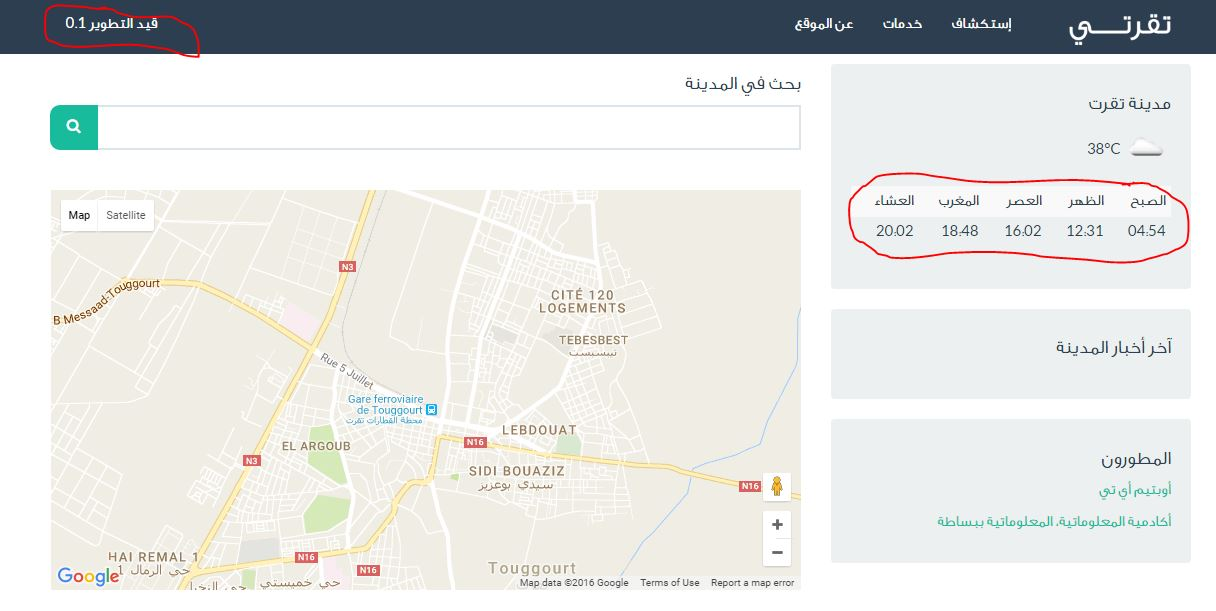
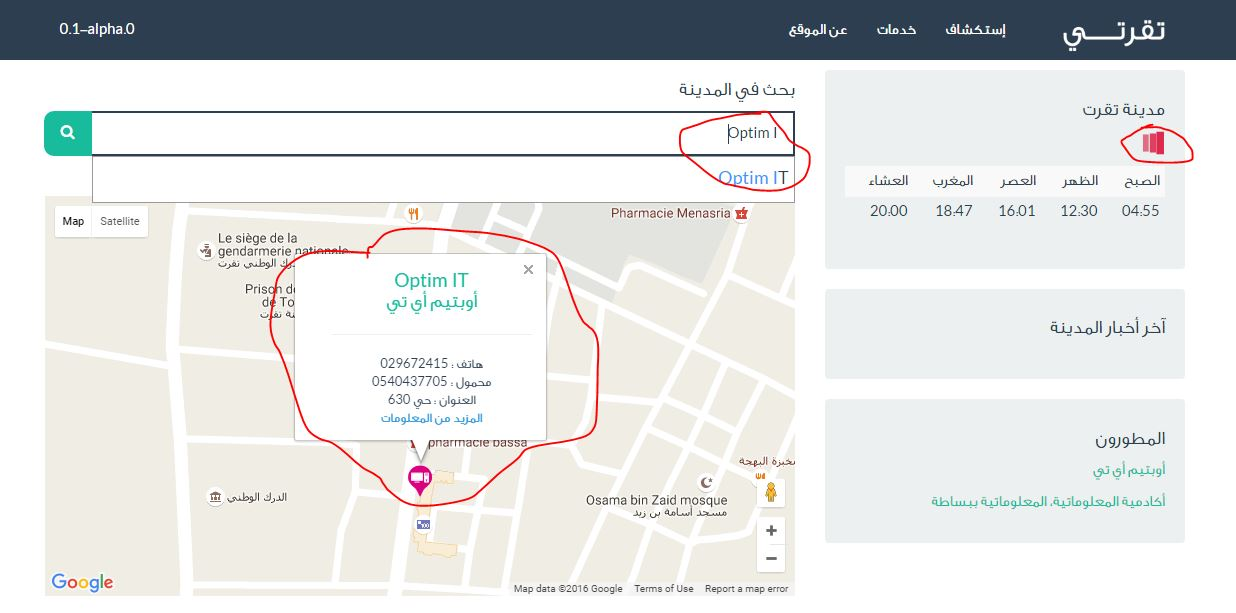
#20    #29 علامة على الخريطة عند إختيار النشاط + صورة جاري التحميل

diff --git a/src/app/views/layouts/layout.html b/src/app/views/layouts/layout.html
@@ -58,14 +58,14 @@
     <div class="container">
         <div class="row">
             <!-- Blog Entries Column -->
-           {{{body}}}
+            {{{body}}}
             <!-- Blog Sidebar Widgets Column -->
             <div class="col-md-4">
                 <!-- Blog Search Well -->
                 <!-- Blog Categories Well -->
                 <div class="well">
                     <h4>مدينة تقرت</h4>
-                    <p><img id="tggt-weather-img" /><span id="tggt-weather-value">Chargement ...</span></p>
+                    <p><img id="tggt-weather-img" /><span id="tggt-weather-value"><img src="images/ripple.svg" alt="جاري التحميل" /></span></p>
                     <table class="table table-condensed table-responsive table-striped">
                         <tr>
                             <td>الصبح</td>
@@ -74,7 +74,23 @@
                             <td>المغرب</td>
                             <td>العشاء</td>
                         </tr>
-                        <tr id="prayer-times"></tr>
+                        <tr id="prayer-times">
+                            <td>
+                                <img src="images/ripple.svg" alt="جاري التحميل" />
+                            </td>
+                            <td>
+                                <img src="images/ripple.svg" alt="جاري التحميل" />
+                            </td>
+                            <td>
+                                <img src="images/ripple.svg" alt="جاري التحميل" />
+                            </td>
+                            <td>
+                                <img src="images/ripple.svg" alt="جاري التحميل" />
+                            </td>
+                            <td>
+                                <img src="images/ripple.svg" alt="جاري التحميل" />
+                            </td>
+                        </tr>
                     </table>
                 </div>
                 <div class="well">
@@ -105,41 +121,90 @@
     </footer>
 
     <script>
-      var map;
-      function initMap() {
-        map = new google.maps.Map(document.getElementById('map'), {
-            center: { lat: 33.1130013, lng: 6.0694183 },
-          zoom: 14
-        });
+        var map;
+        function initMap() {
+            map = new google.maps.Map(document.getElementById('map'), {
+                center: { lat: 33.1130013, lng: 6.0694183 },
+                zoom: 14
+            });
 
-        google.maps.event.addDomListener(window, 'load', initMap);
-      }
+            google.maps.event.addDomListener(window, 'load', initMap);
+        }
     </script>
     <script src="https://maps.googleapis.com/maps/api/js?key=AIzaSyCb523LXFWmMkhES-oztJZRFPhOZIcrvlM&callback=initMap"
             async defer></script>
     <script src="js/jquery.js"></script>
     <script src="js/jquery.autocomplete.min.js"></script>
     <script src="js/bootstrap.js"></script>
+
+    <script>
+        jQuery(function ($) {
+            $.getJSON('{{api_activite_url}}', function (data) {
+                var result = [];
+
+                for (var i in data) {
+                    result.push({ value: data[i].nom, id: data[i].id });
+                    result.push({ value: data[i].nom_ar, id: data[i].id });
+                }
+
+                $('#autocomplete').autocomplete({
+                    lookup: result,
+                    onSelect: function (suggestion) {
+
+
+                        $.getJSON('{{api_activite_url}}/' + suggestion.id, function (data) {
+
+
+                            if (!data.gps || !data.gps.includes(","))
+                                return;
+
+
+                            var lat = parseFloat(data.gps.split(",")[0]);
+                            var lng = parseFloat(data.gps.split(",")[1]);
+
+                            var pinIcon = new google.maps.MarkerImage(
+    'images/marker.png',
+    null, /* size is determined at runtime */
+    null, /* origin is 0,0 */
+    null, /* anchor is bottom center of the scaled image */
+    new google.maps.Size(32, 32)
+);
+                            var myLatLng = { lat: lat, lng: lng };
+                            var marker = new google.maps.Marker({
+                                icon: pinIcon,
+                                position: myLatLng,
+                                map: map,
+
+                            });
+
+                            map.setCenter(myLatLng);
+                            map.setZoom(17);
+
+                            var retval = '<div class="maps-bubble"><h4 class="text-success">' + data.nom + '<br/>' + data.nom_ar + '</h4><hr/>';
+                            if (data.tel != null) retval += 'هاتف : ' + data.tel + '<br/>';
+                            if (data.mobile != null) retval += 'محمول : ' + data.mobile + '<br/>';
+                            if (data.adresse != null) retval += 'العنوان : ' + data.adresse + '<br/>';
+                            retval += '<a class="text-info" href="/activites/' + data.id + '">المزيد من المعلومات' + '</a><br/>';
+
+                            retval += '</div>';
+                            var bubbleOptionsCrelan = {
+                                content: retval
+
+
+                            }
+                            google.maps.event.addListener(marker, 'click', function () {
+                                bubble.open(map, marker);
+                            });
+                            var bubble = new google.maps.InfoWindow(bubbleOptionsCrelan);
+                            bubble.open(map, marker);
+                        });
+
+                    }
+
+                });
+            });
+        });
+    </script>
     <script src='main.js'></script>
-   <script>
-       jQuery(function ($) {
-           $.getJSON('{{api_activite_url}}', function (data) {
-               var result = [];
-
-               for (var i in data) {
-                   result.push({ value: data[i].nom, tel: data[i].id });
-                   result.push({ value: data[i].nom_ar, tel: data[i].id });
-               }
-
-               $('#autocomplete').autocomplete({
-                   lookup: result,
-                   onSelect: function (suggestion) {
-
-                   }
-
-               });
-           });
-       });
-   </script>
 </body>
 </html>

diff --git a/src/app/www/main.js b/src/app/www/main.js
@@ -4,7 +4,7 @@ $(document).ready(function () {
 
     jQuery(function ($) {
         $.getJSON('http://api.openweathermap.org/data/2.5/weather?q=Touggourt&units=metric&APPID=df11073dc1abfbeb8d46132ea00ee41d', function (data) {
-
+            
             $("#tggt-weather-value").html(Math.round(data["main"]["temp"]) + "&#176;C");
             $("#tggt-weather-img").attr('src', "http://openweathermap.org/img/w/" + data["weather"][0]["icon"] + ".png");
         });
@@ -19,7 +19,7 @@ $(document).ready(function () {
             var asr = convert_to_24h(times.items[0].asr);
             var maghrib = convert_to_24h(times.items[0].maghrib);
             var isha = convert_to_24h(times.items[0].isha);
-
+            $('#prayer-times').html("");
             $('#prayer-times')
             .append('<td>' + sobh)
             .append('</td><td>' + dohr)

diff --git a/src/app/www/main.css b/src/app/www/main.css
@@ -32,3 +32,10 @@
 .autocomplete-suggestion { padding: 10px 5px; font-size: 1.2em; white-space: nowrap; overflow: hidden; }
 .autocomplete-selected { background: #f0f0f0; }
 .autocomplete-suggestions strong { font-weight: normal; color: #3399ff; }
+.maps-bubble{
+    min-width:200px;
+    min-height:80px;
+    font-family:'tggtfont',"Lato", "Helvetica Neue", Helvetica, Arial, sans-serif;
+    text-align:center;
+        
+}
